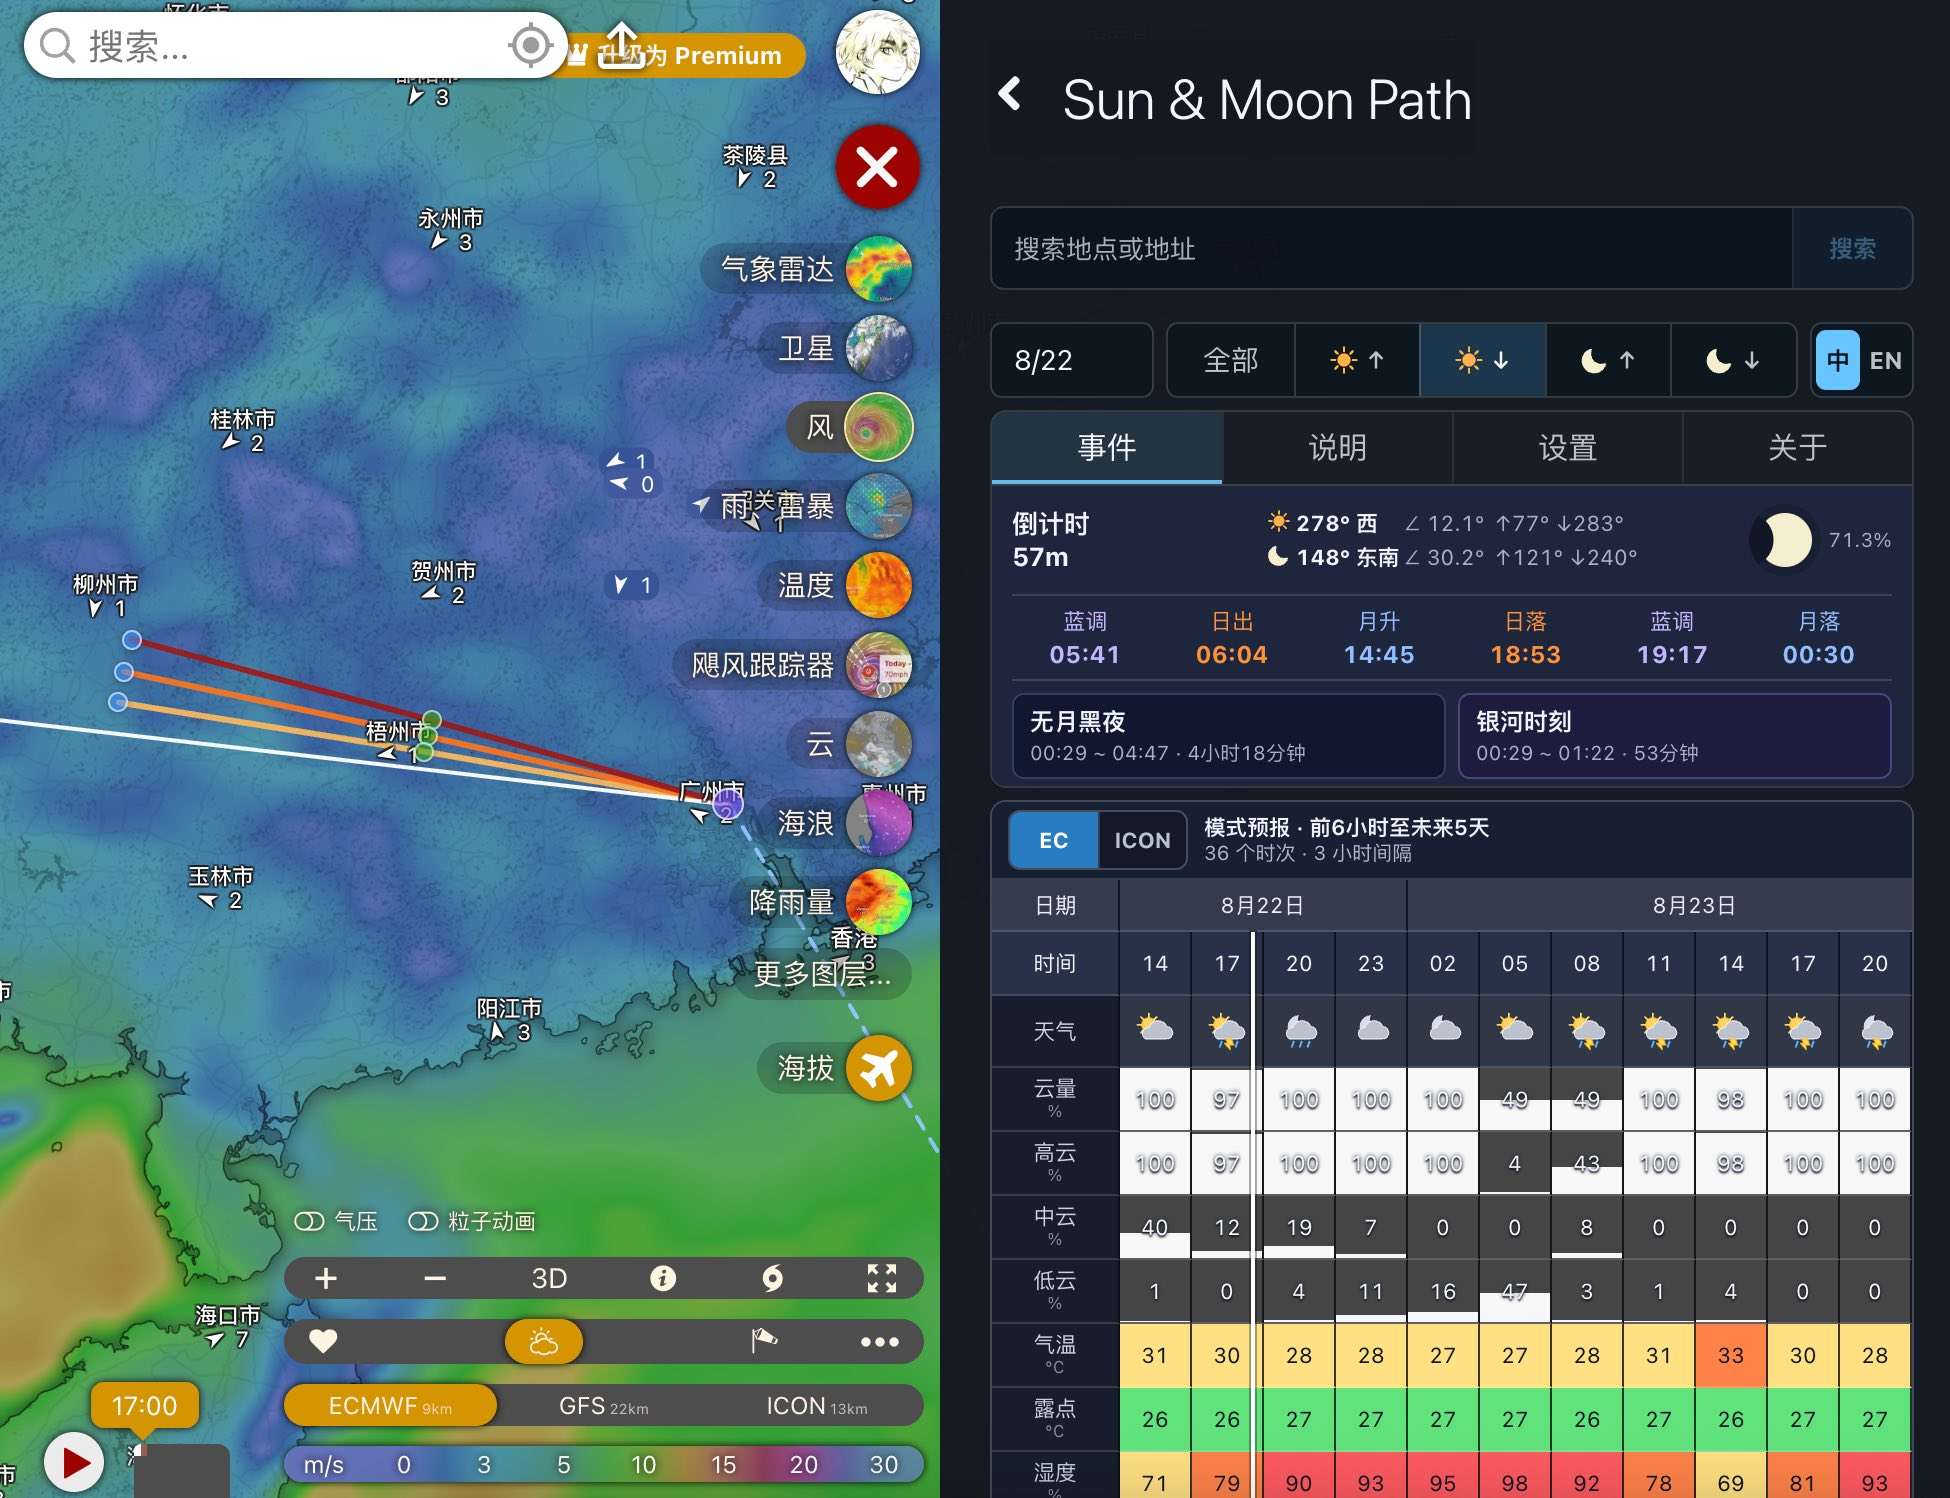
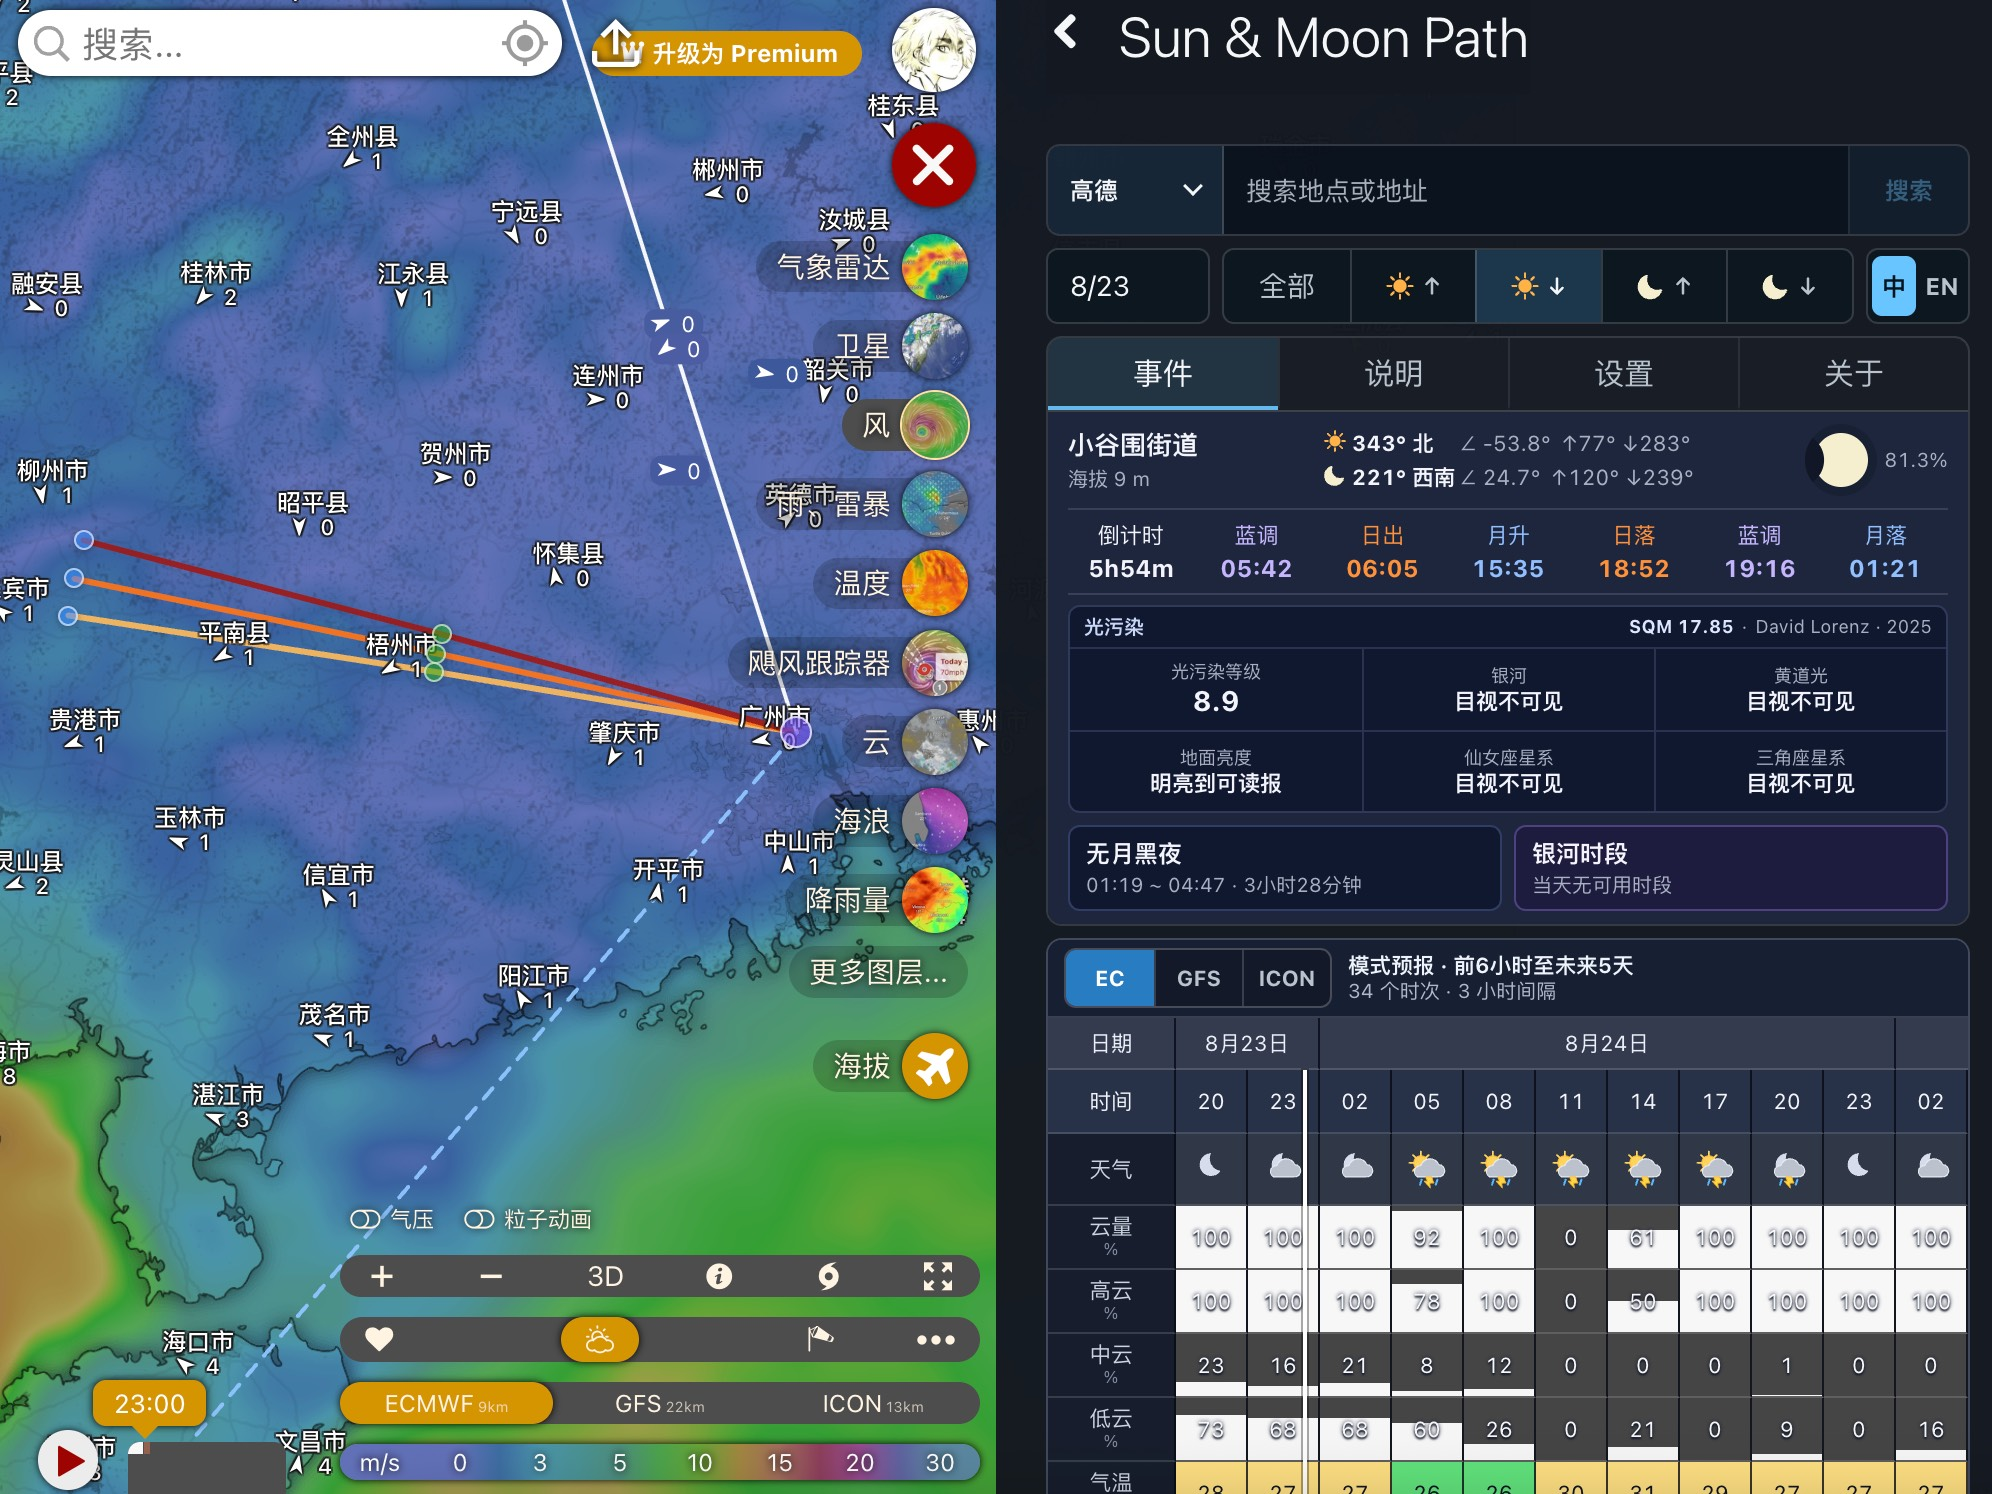
release: 发布 0.7.0-beta.2 测试版

diff --git a/src/plugin.svelte b/src/plugin.svelte
@@ -665,7 +665,6 @@
                 currentTimestamp={currentInstant.getTime()}
                 dataKey={weatherRequestKey}
                 location={selectedLocation}
-                allowVerticalScrollChaining={true}
                 on:modelchange={handleWeatherModelChange}
                 on:retry={retryWeather}
                 on:atmosphereretry={retryAtmosphere}
@@ -3293,7 +3292,7 @@
         height: 100%;
         min-height: 100%;
         overflow-y: auto;
-        padding: 6px 10px 0;
+        padding: 4px 10px 0;
         color: var(--astronomy-text);
         background: var(--astronomy-bg);
     }
@@ -3308,7 +3307,7 @@
         grid-template-columns: minmax(110px, 122px) minmax(0, 1fr) minmax(110px, 122px);
         align-items: center;
         gap: 6px;
-        min-height: 42px;
+        min-height: 40px;
     }
 
     .astronomy-location {
@@ -3529,7 +3528,7 @@
         display: grid;
         grid-template-columns: repeat(7, minmax(0, 1fr));
         gap: 0;
-        margin-top: 6px;
+        margin-top: 4px;
         padding: 6px 0 5px;
         border-top: 1px solid rgba(255, 255, 255, 0.12);
         border-bottom: 1px solid rgba(255, 255, 255, 0.12);
@@ -4421,7 +4420,7 @@
 
         .timeline-events {
             grid-template-columns: repeat(7, minmax(0, 1fr));
-            margin-top: 6px;
+            margin-top: 4px;
         }
 
         .timeline-event {
@@ -4519,12 +4518,12 @@
 
     @media (max-height: 740px) {
         .astronomy-panel {
-            padding-top: 6px;
+            padding-top: 4px;
             padding-bottom: 0;
         }
 
         .astronomy-panel__heading {
-            min-height: 40px;
+            min-height: 38px;
         }
     }
 

diff --git a/src/WeatherTable.svelte b/src/WeatherTable.svelte
@@ -31,7 +31,6 @@
     export let currentTimestamp = Date.now();
     export let dataKey = '';
     export let location: Coordinates;
-    export let allowVerticalScrollChaining = false;
 
     const dispatch = createEventDispatcher<{
         modelchange: WeatherModel;
@@ -302,7 +301,6 @@
         <!-- svelte-ignore a11y-no-noninteractive-tabindex a11y-no-noninteractive-element-interactions -->
         <div
             class="weather-table-scroll"
-            class:weather-table-scroll--chain-y={allowVerticalScrollChaining}
             bind:this={tableScroller}
             role="region"
             aria-label={language === 'zh' ? '逐时天气数据表' : 'Hourly weather data table'}
@@ -616,21 +614,17 @@
         position: relative;
         flex: 1 1 auto;
         min-height: 0;
+        overflow: hidden;
     }
 
     .weather-table-scroll {
         width: 100%;
         height: 100%;
         overflow: auto;
-        overscroll-behavior: contain;
+        overscroll-behavior: none;
         scrollbar-color: #64748b #111827;
         touch-action: pan-x pan-y;
         -webkit-overflow-scrolling: touch;
-    }
-
-    .weather-table-scroll--chain-y {
-        overscroll-behavior-x: contain;
-        overscroll-behavior-y: auto;
     }
 
     .weather-table-scroll::before {

diff --git a/src/LocationSearch.svelte b/src/LocationSearch.svelte
@@ -516,7 +516,12 @@
         </div>
     {/if}
 
-    <div id="location-search-status" class="location-search__status" aria-live="polite">
+    <div
+        id="location-search-status"
+        class="location-search__status"
+        class:location-search__status--visible={!apiKey || status === 'loading' || status === 'empty' || status === 'error'}
+        aria-live="polite"
+    >
         {#if !apiKey}
             <span class="location-search__missing-key">
                 <span>{missingKeyPromptText}</span>
@@ -829,11 +834,15 @@
     }
 
     .location-search__status {
-        min-height: 16px;
-        padding-top: 2px;
+        min-height: 6px;
         color: var(--panel-muted);
         font-size: 11px;
         line-height: 1.3;
+    }
+
+    .location-search__status--visible {
+        min-height: 16px;
+        padding-top: 2px;
     }
 
     .location-search__status [role='alert'] {

diff --git a/src/pluginConfig.ts b/src/pluginConfig.ts
@@ -4,7 +4,7 @@ type PrereleaseExternalPluginConfig = Omit<ExternalPluginConfig, 'version'> & { 
 
 const config: PrereleaseExternalPluginConfig = {
     name: 'windy-plugin-sun-moon-path',
-    version: '0.7.0-beta.1',
+    version: '0.7.0-beta.2',
     icon: '☀',
     title: 'Sun & Moon Path',
     description: 'Show sunrise, sunset, moonrise, moonset and live celestial directions on Windy.',
